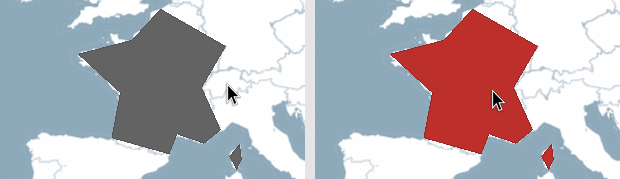
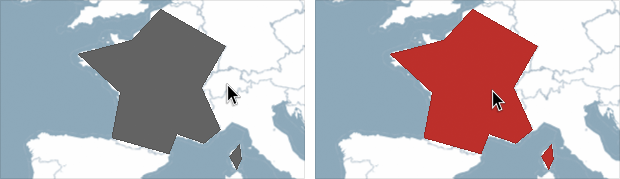
Updated simple marker tutorial and its images.

diff --git a/tutorials/markers-simple.md b/tutorials/markers-simple.md
@@ -3,7 +3,7 @@ layout: page
 title: Markers 
 description: How to use point, line, and polygon markers, how to style them, and how to create an interaction mechanism.
 group: tutorials-beginner
-thumbnail: ../assets/images/tutorials/basic-map-thumb.png
+thumbnail: ../assets/images/tutorials/markers-simple-thumb.png
 finalimage: 
 ---
 
@@ -29,14 +29,24 @@ They will be drawn automatically on top of the map, always at the correct positi
 
 Unfolding provides a default marker style, and has point, line, and polygon markers out of the box.
 
-
 ## Style your markers
 
-The easiest method to style your marker is to draw it yourself instead of adding it to the map.
+All default markers provide some very basic styling methods, e.g. to set stroke and fill colors.
 
-![Styled marker with fixed size](../assets/images/tutorials/marker-fixed-size.png)
+	// Adapt style
+	berlinMarker.setColor(color(255, 0, 0, 100));
+	berlinMarker.setStrokeColor(color(255, 0, 0));
+	berlinMarker.setStrokeWeight(4);
 
-For this you need to make the marker global, i.e. define the variable first in your sketch (line 2), then assign a new marker in setup (line 11).
+For more sophisticated marker customization or for creating data glyphs, there are two options:
+- Drawing it yourself
+- Creating own marker class (advanced)
+
+The easiest method to create a custom style is to draw the marker yourself instead of adding it to the map.
+
+![Styled markers](../assets/images/tutorials/marker-style-2.png)
+
+For this you need to make the marker global, i.e. define the variable first in your sketch (here: line 2), then assign a new marker in setup (line 11).
 In draw() get the current position of the marker (line 19), and draw some visual representation with Processing's drawing functions (lines 20-23).
 
 	UnfoldingMap map;
@@ -58,28 +68,27 @@ In draw() get the current position of the marker (line 19), and draw some visual
 	  map.draw();
 
 	  ScreenPosition berlinPos = berlinMarker.getScreenPosition(map);
-	  strokeWeight(1);
-	  stroke(0, 100);
-	  fill(0, 200, 0, 100);
-	  ellipse(berlinPos.x, berlinPos.y, 20, 20);
+	  strokeWeight(16);
+	  stroke(67, 211, 227, 100);
+	  noFill();
+	  ellipse(berlinPos.x, berlinPos.y, 36, 36);
 	}
 
 `marker.getScreenPosition(map)` returns the current x,y-position of the marker on the map. The method converts the geo-location of that marker to the current `ScreenPosition` on the canvas of the sketch.
 
 
-Now, you can style your markers in any way you want. In the following example we draw the marker as ring with a text label.
+Now, you can style your markers in any way you want. In the following example we draw the marker as two arcs with a text label.
 
 ![Marker as ring with label](../assets/images/tutorials/marker-style-1.png)
 
-Note that we draw a zoom dependent marker, i.e. the marker will be bigger in zoomed in, and smaller in zoomed out maps.
-
 	ScreenPosition posLondon = markerLondon.getScreenPosition(map);
-	strokeWeight(16);
-	stroke(200, 0, 0, 100);
+	strokeWeight(12);
+	stroke(200, 0, 0, 200);
+	strokeCap(SQUARE);
 	noFill();
-	// Zoom dependent marker size
-	float s = map.getZoom();
-	ellipse(posLondon.x, posLondon.y, s, s);
+	float s = 44;
+	arc(posLondon.x, posLondon.y, s, s, -PI * 0.9, -PI * 0.1);
+	arc(posLondon.x, posLondon.y, s, s, PI * 0.1, PI * 0.9);
 	fill(0);
 	text("London", posLondon.x - textWidth("London") / 2, posLondon.y + 4);
 
@@ -94,14 +103,12 @@ Besides, by creating your own marker class you will have cleaner code, and can m
 
 ![Image marker](../assets/images/tutorials/markers-image.png)
 
-See the [Image Marker example](examples/40_image-marker.html) for code on how to create an own marker class displaying images.
-
-(More following soon.)
+See the [Image Marker example](../examples/40_image-marker.html) for code on how to create an own marker class displaying images.
 
 
 ## Line and polygon marker
 
-(More following soon.)
+(Coming soon.)
 
 
 ## Selecting a marker
@@ -113,13 +120,15 @@ You can manually set the status, and it will be displayed in the default highlig
 	SimplePointMarker marker = new SimplePointMarker(new Location(52.5, 13.4));
 	marker.setSelected(true);
 
-If you want to allow users to interactively select and deselect markers, you need to check which marker the mouse pointer is over currently, and set the status accordingly. 
+If you want to allow users to interactively select and deselect markers, you need to check which marker the mouse pointer is over currently, and set the status accordingly. For instance, like this:
 
 	public void mouseMoved() {
 		Marker hitMarker = map.getFirstHitMarker(mouseX, mouseY);
 		if (hitMarker != null) {
+			// Select current marker 
 			hitMarker.setSelected(true);
 		} else {
+			// Deselect all other markers
 			for (Marker marker : map.getMarkers()) {
 				marker.setSelected(false);
 			}
@@ -150,7 +159,13 @@ The following example shows the shape for France and Corsica, both defined as (c
 
 As you can see, this works also with selection handling. When the user moves the mouse over one of the areas, both are highlighted. 
 
-(More following soon.)
+
+## Fixed and dynamic sized markers
+
+Note that we draw a zoom dependent marker, i.e. the marker will be bigger in zoomed in, and smaller in zoomed out maps.
+
+	// Zoom dependent marker size
+	float s = map.getZoom();
 
 
 ## Creating data markers from GeoJSON, GPX & Co
